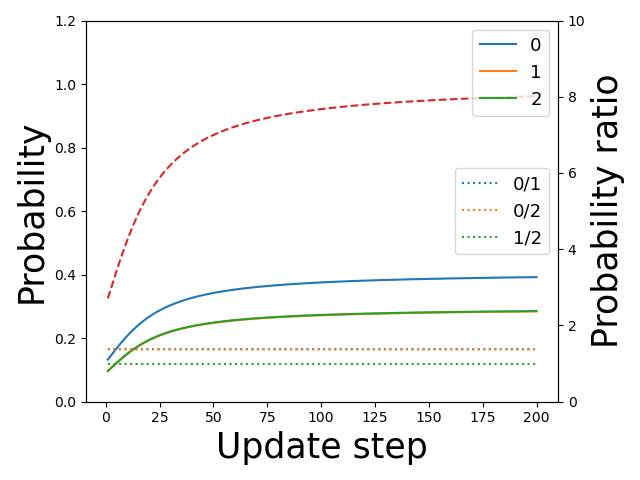
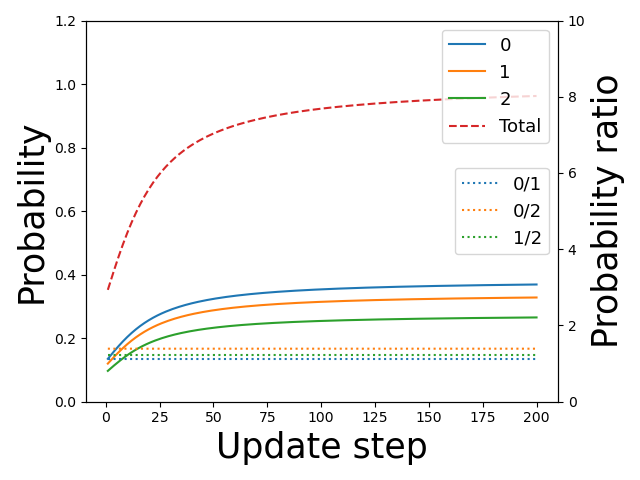
total to legend

diff --git a/learn/monitor.py b/learn/monitor.py
@@ -111,7 +111,7 @@ class MonitorProbs():
         if showsum:
             keys = keys[average-1:]
             values = moving_average(values, average)
-            plot.plot(keys, values, linestyle='dashed')
+            plot.plot(keys, values, linestyle='dashed', label="Total")
 
 
         
